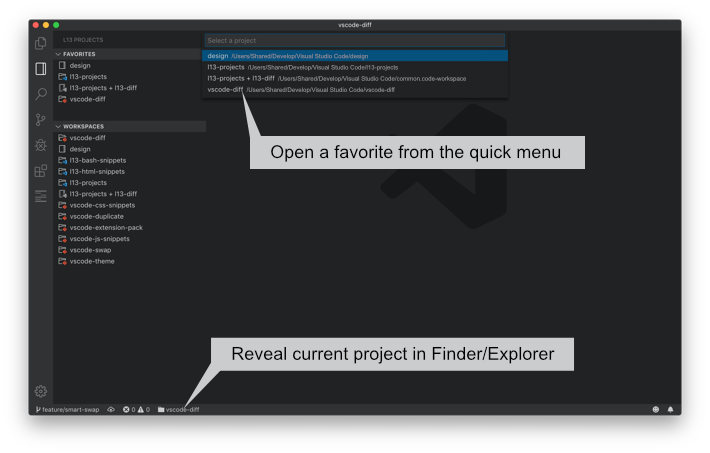
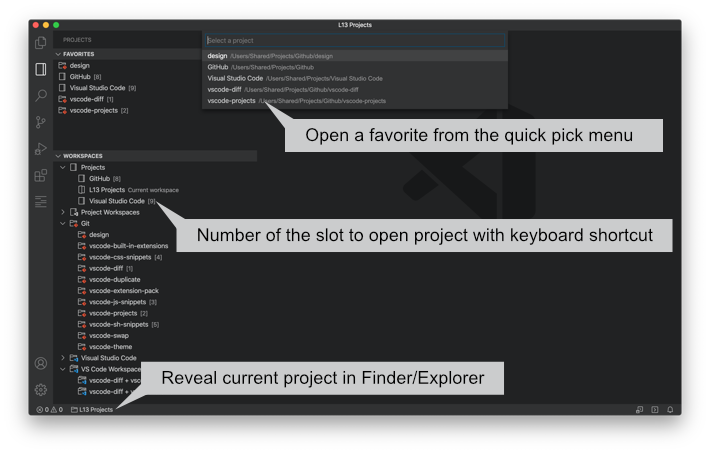
- added new preview images

diff --git a/README.md b/README.md
@@ -9,7 +9,7 @@ Manage your workspaces and projects in Visual Studio Code.
 - Added message to empty workspace view.
 - Added save dialog to unknown worspace.
 - Added `l13Projects.sortWorkspacesBy` to group and sort workspaces.
-- Added `l13Projects.initialWorkspacesGroupState` to set the initial state of the workspaces groups.
+- Added `l13Projects.initialWorkspacesGroupState` to set the initial state of the workspace groups.
 - Added keyboard shortcuts for workspace slots `Ctrl/Cmd + L Ctrl/Cmd + 1 .. 9`.
 - Added keyboard shortcut for previous workspace `Ctrl/Cmd + L Ctrl/Cmd + 0`.
 
@@ -33,13 +33,9 @@ Manage your workspaces and projects in Visual Studio Code.
 
 ### Workspaces
 
-![Projects Favorites](images/preview-workspaces.png)
+![Projects](images/preview-workspaces.png)
 
-### Favorites
-
-![Projects Favorites](images/preview-favorites.png)
-
-### Quick Pick for Favorites or Projects
+### Quick Pick for Favorites or Projects and Keyboard Shortcuts for Slots
 
 ![Projects Quick Menu](images/preview-quick-menu.png)
 
@@ -47,7 +43,7 @@ Manage your workspaces and projects in Visual Studio Code.
 
 ![Projects Diff Folders](images/preview-l13-diff.png)
 
-### Legend of used Icons
+### Icons
 
 ![Projects Icons](images/preview-icons.png)
 
@@ -66,7 +62,7 @@ Priority of icons and labels for saved projects and detected folders and workspa
 * `l13Projects.pickFavorite` - Open the quick menu and pick a favorite.
 * `l13Projects.pickProject` - Open the quick menu and pick a project.
 * `l13Projects.refreshProjects` - Refresh all detected folders and workspaces.
-* `l13Projects.slot1 .. .slot9` - Open a workspace in slot.
+* `l13Projects.slot1 .. .slot9` - Open a workspace of a slot.
 * `l13Projects.previousWorkspace` - Open the previous active workspace.
 
 ## Available Settings
@@ -98,14 +94,14 @@ macOS
 * `Cmd + L Cmd + P` - Open the projects view.
 * `Cmd + Alt + P` - Open the quick menu to pick a favorite.
 * `Cmd + Alt + Shift + P` - Open the quick menu to pick a project.
-* `Cmd + L Cmd + 1 .. 9` - Open the workspace in the slot 1 - 9.
+* `Cmd + L Cmd + 1 .. 9` - Open a workspace in the slot 1 - 9.
 
 Windows / Linux
 
 * `Ctrl + L Ctrl + P` - Open the projects view.
 * `Ctrl + Alt + P` - Open the quick menu to pick a favorite.
 * `Ctrl + Alt + Shift + P` - Open the quick menu to pick a project.
-* `Ctrl + L Ctrl + 1 .. 9` - Open the workspace in the slot 1 - 9.
+* `Ctrl + L Ctrl + 1 .. 9` - Open a workspace in the slot 1 - 9.
 
 If the key bindings don't work, please check `Preferences -> Keyboard Shortcuts`.
 

diff --git a/CHANGELOG.md b/CHANGELOG.md
@@ -7,7 +7,7 @@ All notable changes to the "Projects" extension will be documented in this file.
 - Added message to empty workspace view.
 - Added save dialog to unknown worspace.
 - Added `l13Projects.sortWorkspacesBy` to group and sort workspaces.
-- Added `l13Projects.initialWorkspacesGroupState` to set the initial state of the workspaces groups.
+- Added `l13Projects.initialWorkspacesGroupState` to set the initial state of the workspace groups.
 - Added keyboard shortcuts for workspace slots `Ctrl/Cmd + L Ctrl/Cmd + 1 .. 9`.
 - Added keyboard shortcut for previous workspace `Ctrl/Cmd + L Ctrl/Cmd + 0`.
 
